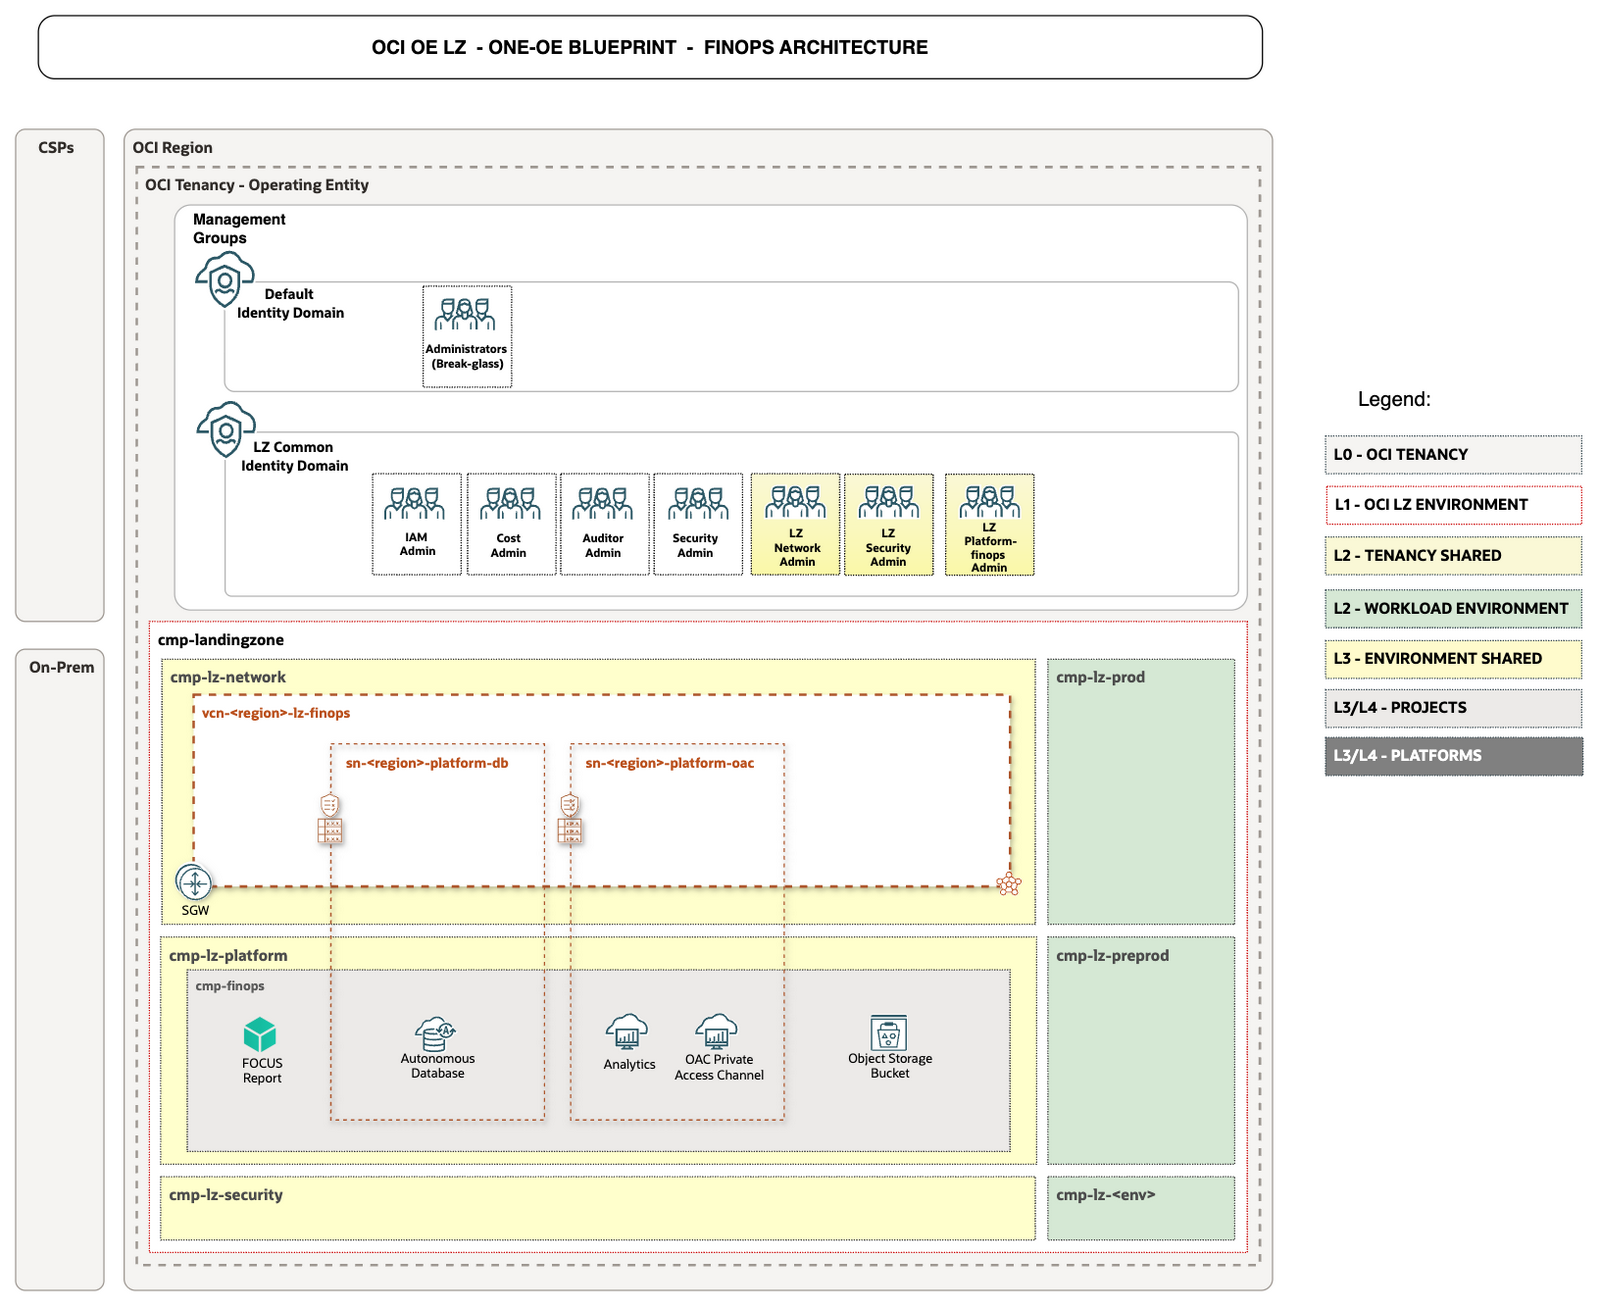
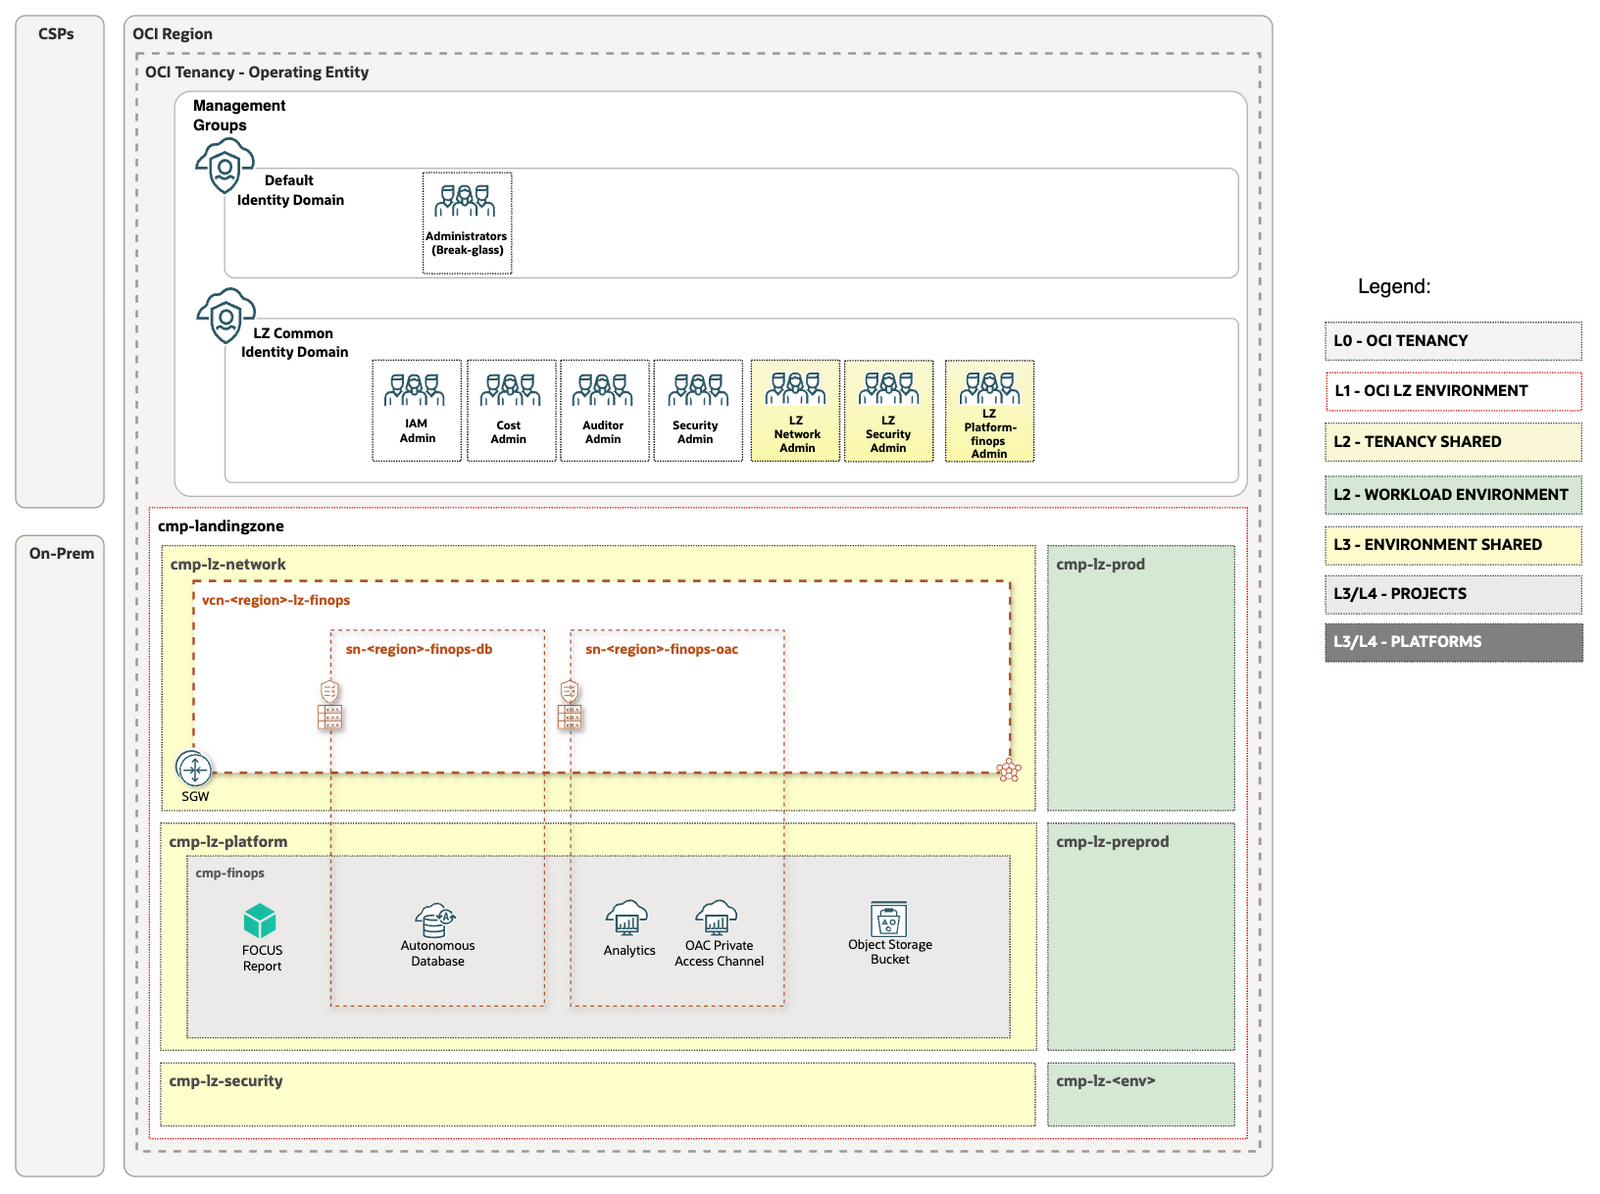
docs(finops): require tagging and refresh v0.5 architecture export

diff --git a/addons/oci-finops/README.md b/addons/oci-finops/README.md
@@ -40,7 +40,7 @@ The solution describes the end-to-end workflow by securely fetching FOCUS report
 | **Autonomous Database (ADB)** | Central data store for the FinOps platform. Provisioned with a **private endpoint** inside the VCN, it directly ingests FOCUS reports and powers the visualization layer. |
 | **Oracle Analytics Cloud (OAC)** | Presents dashboards and reports on top of ADB for cost visibility, allocation, and analysis. A private access channel connects OAC to the private ADB endpoint. |
 | **VCN & Subnets**         | A dedicated **Virtual Cloud Network** with private subnets for ADB and OAC connectivity, integrated with the One-OE network topology. Network security groups control access to the FinOps endpoints. |
-| **Tags (Optional)**       | A dedicated **`tgns-finops`** defined-tag namespace: **BusinessUnit** identifies the business owner, **CostCentre** the financial allocation code, **Owner** the responsible owner's email, **platform** the service or workload, **environment** the environment, and **Projects** the project name. |
+| **Tags**                  | A dedicated **`tgns-finops`** defined-tag namespace: **BusinessUnit** identifies the business owner, **CostCentre** the financial allocation code, **Owner** the responsible owner's email, **platform** the service or workload, **environment** the environment, and **Projects** the project name. |
 | **Object Storage Bucket (Optional)** | Collects FOCUS reports exported from other cloud providers for ingestion into the FinOps database. Provider exports and ingestion mappings must be configured for the selected FOCUS versions. |
 
 &nbsp;
